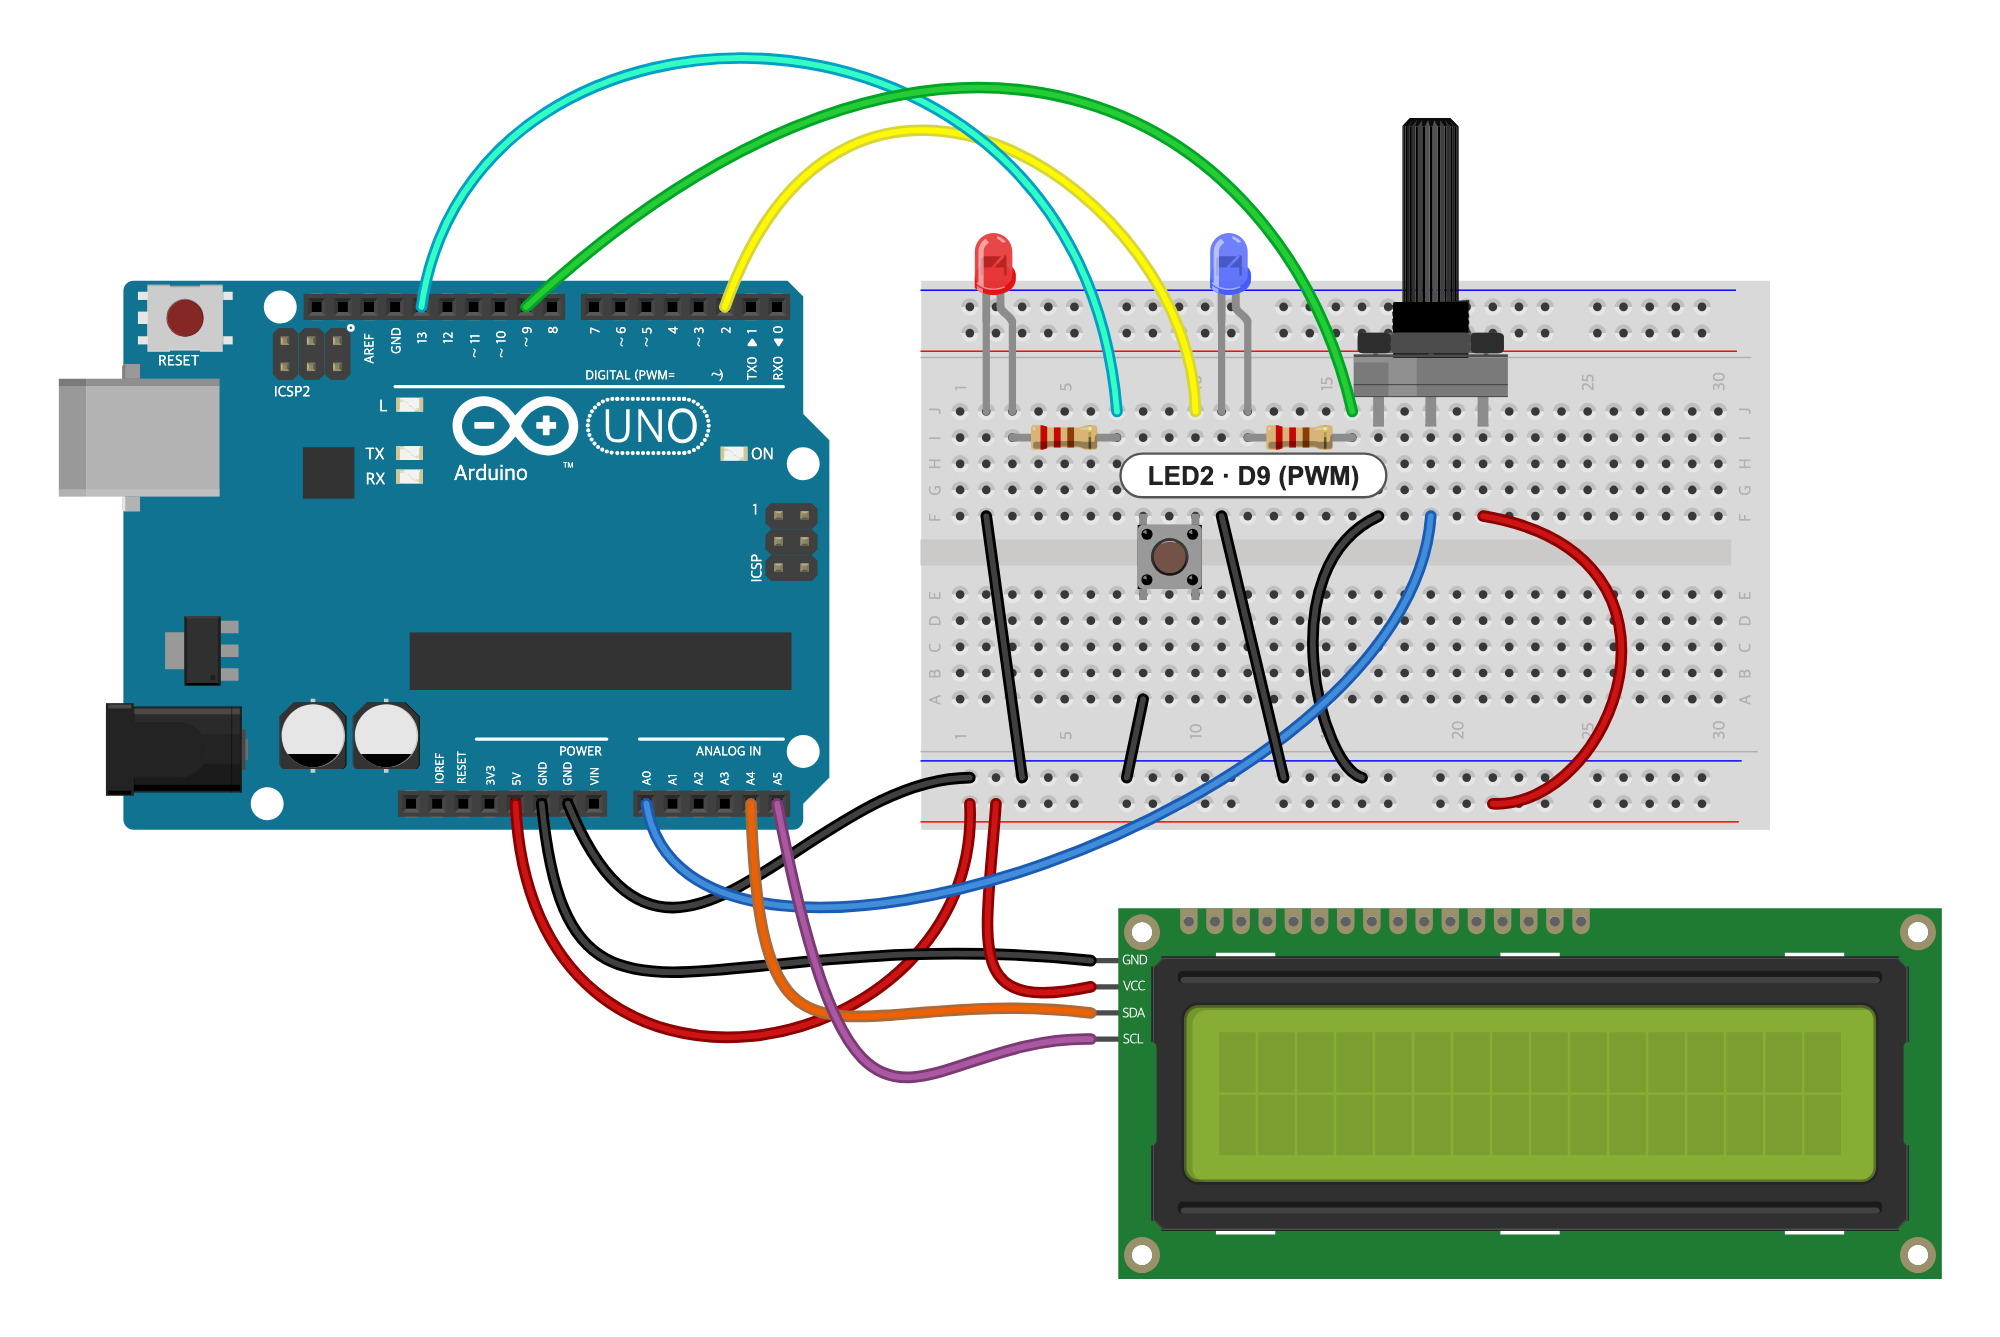
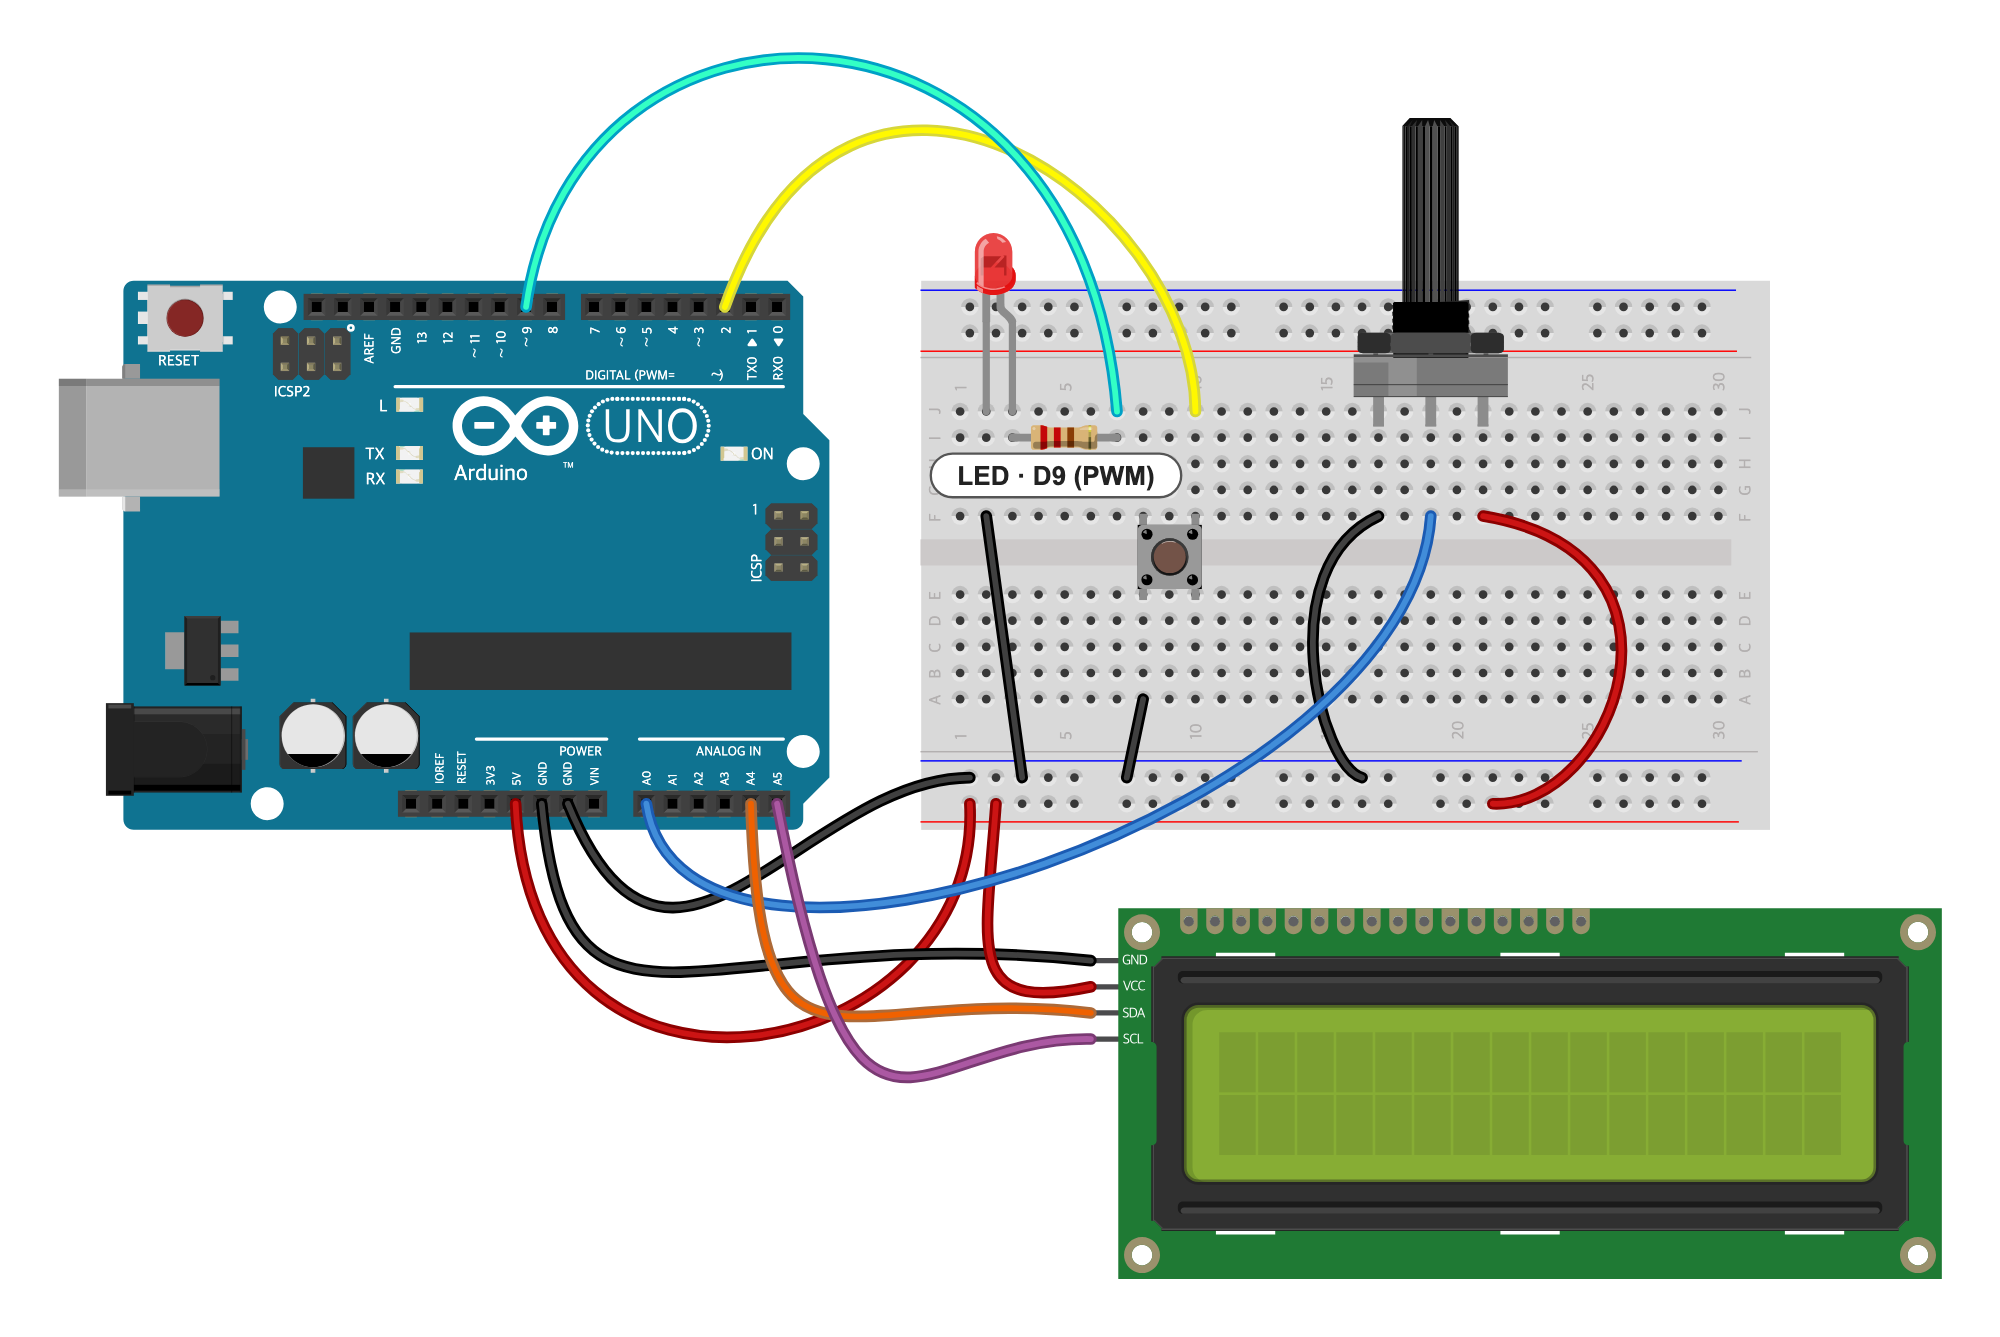
finger-led: wiring now moves the class LED from D13 to D9 instead of adding LED2; diagram generator renders all class-circuit variants

diff --git a/finger-led/index.html b/finger-led/index.html
@@ -973,12 +973,12 @@
 
       <section aria-labelledby="wiring-title">
         <h2 id="wiring-title"><span class="section-number">04</span>회로와 연결도</h2>
-        <p>회로는 지난 p5 슬라이더 과제와 같다. 수업 회로에 더한 <strong>파랑 LED2와 220 Ω 저항</strong>을 쓴다. D9 → 220 Ω → LED2 긴 다리(+), 짧은 다리(−) → GND 레일이다. 수업 회로의 나머지 부품은 꽂힌 채로 두지만 이번 스케치에서는 쓰지 않는다.</p>
+        <p>수업 회로를 그대로 쓰고 <strong>선 하나만 옮겼다</strong>. 수업 회로의 빨강 LED1은 D13 → 220 Ω → LED(+), (−) → GND로 연결되어 있다. 그런데 D13은 PWM이 없어 <code>analogWrite()</code>로 켜고 끄는 것만 된다(값 128 미만은 꺼짐, 이상은 켜짐). 그래서 D13에 꽂힌 하늘색 선을 PWM 핀인 <strong>D9</strong>로 옮겼다. 부품을 더하지 않았고, 나머지 부품(버튼, 가변저항, LCD)은 꽂힌 채로 두지만 이번 스케치에서는 쓰지 않는다.</p>
         <figure class="media-figure">
           <a href="assets/finger-led-breadboard.svg" aria-label="연결도 크게 보기">
-            <img src="assets/finger-led-breadboard.svg" alt="브레드보드 연결도. 파랑 LED2가 초록 선으로 D9에서 220옴 저항을 거쳐 연결되고 음극은 GND 레일로 간다. 수업 회로의 LED1(D13), 버튼(D2), 가변저항(A0), I2C LCD(A4, A5)도 꽂혀 있다." loading="lazy">
+            <img src="assets/finger-led-breadboard.svg" alt="브레드보드 연결도. 빨강 LED는 하늘색 선으로 Arduino D9에 연결되고 220옴 저항을 거쳐 GND로 간다. 수업 회로의 버튼(D2), 가변저항(A0), I2C LCD(A4, A5)도 꽂혀 있다." loading="lazy">
           </a>
-          <figcaption>수업 Fritzing 파일(PotButtonLCD.fzz)의 브레드보드 화면을 같은 부품 그림과 좌표로 다시 그리고 LED2·220 Ω 저항·D9 선(초록)을 더한 연결도다(지난 과제와 같은 그림). 부품 그림은 Fritzing 기본 부품(fritzing-parts, CC BY-SA 3.0)이고, LCD는 수업 파일에 들어 있는 'LCD1602-I2C' 부품(작성자 Stephen Lilley)이다.</figcaption>
+          <figcaption>수업 Fritzing 파일(PotButtonLCD.fzz)의 브레드보드 화면을 같은 부품 그림과 좌표로 다시 그리고, LED 선(하늘색)의 Arduino 쪽 끝만 D13에서 D9로 옮긴 연결도다. 부품 그림은 Fritzing 기본 부품(fritzing-parts, CC BY-SA 3.0)이고, LCD는 수업 파일에 들어 있는 'LCD1602-I2C' 부품(작성자 Stephen Lilley)이다.</figcaption>
         </figure>
         <div class="asset-links">
           <a href="assets/finger-led-breadboard.svg" download>연결도 다운로드 (.svg)</a>
@@ -990,16 +990,17 @@
             <table class="pin-table">
               <thead><tr><th>Arduino</th><th>연결</th><th>이번 스케치</th></tr></thead>
               <tbody>
-                <tr><td><strong>D9 (~)</strong></td><td><strong>220 Ω → 파랑 LED2(+), (−) → GND</strong></td><td><strong>PWM 밝기</strong></td></tr>
+                <tr><td><strong>D9 (~)</strong></td><td><strong>하늘색 선 → 220 Ω → 빨강 LED(+), (−) → GND</strong></td><td><strong>PWM 밝기 (D13에서 옮김)</strong></td></tr>
                 <tr><td>USB</td><td>노트북과 연결</td><td>Web Serial 9600 baud</td></tr>
-                <tr><td>D13, D2, A0, A4/A5</td><td>수업 회로(LED1, 버튼, 가변저항, LCD)</td><td>사용 안 함</td></tr>
+                <tr><td>D13</td><td>비어 있음</td><td></td></tr>
+                <tr><td>D2, A0, A4/A5</td><td>수업 회로(버튼, 가변저항, LCD)</td><td>사용 안 함</td></tr>
               </tbody>
             </table>
           </div>
           <div class="panel">
             <h3>준비물</h3>
             <ul class="parts-list">
-              <li>Arduino Uno, LED 1개, 220 Ω 저항 1개, 점퍼선</li>
+              <li>수업 회로 그대로 (Arduino Uno, LED, 220 Ω 저항 포함). 추가 부품 없음</li>
               <li>웹캠이 있는 노트북</li>
               <li>Chrome 또는 Edge (Web Serial과 카메라를 쓰는 브라우저)</li>
             </ul>
@@ -1493,6 +1494,7 @@ void loop() {
       <section aria-labelledby="usage-title">
         <h2 id="usage-title"><span class="section-number">06</span>사용법</h2>
         <ol>
+          <li>수업 회로에서 D13에 꽂힌 LED 선을 D9로 옮긴다.</li>
           <li>Arduino IDE로 <code>finger_led.ino</code>를 Uno에 올린다.</li>
           <li>Chrome이나 Edge로 <a href="app/">앱</a>을 열고 카메라를 허용한다. 손 인식 모델을 불러오는 데 몇 초 걸린다.</li>
           <li><strong>Arduino 연결</strong>을 누르고 Uno의 포트를 고른다. '연결됨'이 뜨면 준비가 끝난 것이다.</li>
@@ -1573,7 +1575,7 @@ void loop() {
       <section aria-labelledby="demo-title">
         <h2 id="demo-title"><span class="section-number">08</span>실제 동작</h2>
         <figure class="media-figure" id="videoFigure" hidden>
-          <video controls playsinline preload="metadata" poster="assets/finger-led-poster.jpg" aria-label="손가락 간격으로 파랑 LED 밝기를 조절하는 실제 동작 영상">
+          <video controls playsinline preload="metadata" poster="assets/finger-led-poster.jpg" aria-label="손가락 간격으로 LED 밝기를 조절하는 실제 동작 영상">
             <source src="assets/finger-led.mp4" type="video/mp4">
           </video>
           <figcaption>실제 동작 영상(소리 없음).</figcaption>

diff --git a/tools/make_class_breadboard.py b/tools/make_class_breadboard.py
@@ -1,4 +1,6 @@
-# Renders the class PotButtonLCD.fz breadboard view (original PNG) and the assignment version with LED2 on D9 (SVG + PNG).
+# Renders the class PotButtonLCD.fz breadboard view and the assignment circuits built on it (SVG + PNG):
+#   p5-led-slider  LED2 and its resistor added on D9
+#   finger-led     LED1's wire moved from D13 to D9 (D13 has no PWM), nothing added
 import re
 import struct
 import subprocess
@@ -6,7 +8,6 @@ import xml.etree.ElementTree as ET
 from pathlib import Path
 
 LED2_COLOR = "Blue (470nm)"
-LED2_LABEL = "LED2 · D9 (PWM)"
 
 SVG = "http://www.w3.org/2000/svg"
 XLINK = "http://www.w3.org/1999/xlink"
@@ -21,11 +22,6 @@ FZ = FZZ / "PotButtonLCD.fz"
 PARTS = ROOT / "_build/fritzing-parts"
 APP = ROOT / "_build/fritzing-app"
 SCRATCH = ROOT / "_build/p5-slider"
-OUT_DIR = LAB / "p5-led-slider/assets"
-OUT_SVG = OUT_DIR / "p5-led-slider-breadboard.svg"
-OUT_PNG = OUT_DIR / "p5-led-slider-breadboard.png"
-ORIG_SVG = SCRATCH / "class-original.svg"
-ORIG_PNG = SCRATCH / "class-original.png"
 CHROME = "/Applications/Google Chrome.app/Contents/MacOS/Google Chrome"
 PNG_WIDTH = 2000
 
@@ -41,8 +37,8 @@ UNIT_IN = {"in": 1.0, "mm": 1 / 25.4, "cm": 1 / 2.54, "pt": 1 / 72, "pc": 1 / 6}
 LED2_SHIFT_COLS = 9
 LED2_GND_RAIL_PIN = "pin15X"
 D9_CONNECTOR = "connector52"
+D13_CONNECTOR = "connector56"
 D9_CP = ((-24.0, -105.0), (-140.0, -170.0))
-LABEL_POS = (398.0, 22.0)
 
 
 def el(tag, attrs=None, parent=None, text=None):
@@ -248,24 +244,37 @@ def add_led2(insts, holes, uno):
     return [led2, r3, *wires]
 
 
-def label_group():
-    w = len(LED2_LABEL) * 5.3 + 12
-    x, y = LABEL_POS
-    g = el("g", {"id": "led2-label"})
+def move_led1_to_d9(insts, holes, uno):
+    # The class file's D13 wire ends at the Uno; move that end four pins along to D9 and carry the
+    # curve's near control point with it, so the wire keeps its shape.
+    d13 = uno_pin(uno, D13_CONNECTOR)
+    d9 = uno_pin(uno, D9_CONNECTOR)
+    wire = next(w for w in insts if w["module"] == WIRE
+                and abs(w["x"] + w["p2"][0] - d13[0]) < 0.5 and abs(w["y"] + w["p2"][1] - d13[1]) < 0.5)
+    dx, dy = d9[0] - d13[0], d9[1] - d13[1]
+    (c0, c1) = wire["bezier"]
+    wire.update(p2=(wire["p2"][0] + dx, wire["p2"][1] + dy), bezier=(c0, (c1[0] + dx, c1[1] + dy)))
+    return []
+
+
+def label_group(text, pos):
+    w = len(text) * 5.3 + 12
+    x, y = pos
+    g = el("g", {"id": "pin-label"})
     el("rect", {"x": f"{x - w / 2:.1f}", "y": y - 7.5, "width": f"{w:.1f}", "height": 15, "rx": 7.5, "fill": "#ffffff",
                 "stroke": "#555555", "stroke-width": 0.8}, g)
     el("text", {"x": x, "y": y + 3.4, "text-anchor": "middle", "font-size": 9, "font-weight": "bold",
-                "font-family": "Arial, Helvetica, sans-serif", "fill": "#222222"}, g, LED2_LABEL)
+                "font-family": "Arial, Helvetica, sans-serif", "fill": "#222222"}, g, text)
     return g
 
 
-def build(with_led2):
+def build(change, label):
     insts = read_instances()
     bb = next(i for i in insts if i["module"] == BREADBOARD)
     uno = next(i for i in insts if i["module"] == UNO)
     holes = breadboard_holes(bb)
-    if with_led2:
-        insts += add_led2(insts, holes, uno)
+    if change:
+        insts += change(insts, holes, uno)
     insts.sort(key=lambda i: i["z"])
     shadows = wire_shadows()
     colors = led_colors()
@@ -283,10 +292,11 @@ def build(with_led2):
         body.append(grp)
         xs += [x, x + w]
         ys += [y, y + h]
-    if with_led2:
-        body.append(label_group())
-        xs += [LABEL_POS[0] - 60, LABEL_POS[0] + 60]
-        ys += [LABEL_POS[1] - 12]
+    if label:
+        text, pos = label
+        body.append(label_group(text, pos))
+        xs += [pos[0] - 60, pos[0] + 60]
+        ys += [pos[1] - 12]
     return body, (min(xs) - 20, min(ys) - 20, max(xs) + 20, max(ys) + 20)
 
 
@@ -313,15 +323,25 @@ def write(body, bounds, svg_path, png_path, title, desc):
     print(svg_path, png_path, size)
 
 
+CREDIT = ("Breadboard, Arduino Uno (Rev3), potentiometer, pushbutton, LED and resistor graphics are from Fritzing "
+          "(fritzing-parts), CC BY-SA 3.0. The LCD1602-I2C graphic is the custom part in the class's PotButtonLCD.fzz.")
+
+# name -> (change to the class circuit, pin label (text, position), output stem, title)
+VARIANTS = {
+    "class": (None, None, SCRATCH / "class-original", "PotButtonLCD breadboard (class file)"),
+    "p5-led-slider": (add_led2, ("LED2 · D9 (PWM)", (398.0, 22.0)), LAB / "p5-led-slider/assets/p5-led-slider-breadboard",
+                      "Arduino Uno LED slider breadboard wiring: LED2 on D9 added"),
+    "finger-led": (move_led1_to_d9, ("LED · D9 (PWM)", (330.0, 22.0)), LAB / "finger-led/assets/finger-led-breadboard",
+                   "Arduino Uno finger dimmer breadboard wiring: LED1 moved from D13 to D9"),
+}
+
+
 def main():
     SCRATCH.mkdir(parents=True, exist_ok=True)
-    credit = ("Breadboard, Arduino Uno (Rev3), potentiometer, pushbutton, LED and resistor graphics are from Fritzing "
-              "(fritzing-parts), CC BY-SA 3.0. The LCD1602-I2C graphic is the custom part in the class's PotButtonLCD.fzz.")
-    body, bounds = build(False)
-    write(body, bounds, ORIG_SVG, ORIG_PNG, "PotButtonLCD breadboard (class file)", credit)
-    body, bounds = build(True)
-    write(body, bounds, OUT_SVG, OUT_PNG, "Arduino Uno LED slider breadboard wiring",
-          credit + " Rendered from the class Fritzing file with LED2 on D9 added.")
+    for change, label, stem, title in VARIANTS.values():
+        body, bounds = build(change, label)
+        write(body, bounds, stem.with_suffix(".svg"), stem.with_suffix(".png"), title,
+              CREDIT + " Rendered from the class Fritzing file. " + title + ".")
 
 
 if __name__ == "__main__":

diff --git a/tools/fingersim/ino_test.cpp b/tools/fingersim/ino_test.cpp
@@ -1,5 +1,6 @@
 // Feeds serial lines to finger_led.ino on the host and checks D9 and the replies.
-// Build: c++ -std=c++17 -I. ino_test.cpp -o /tmp/ino_test && /tmp/ino_test
+// Build from the project root:
+//   clang++ -std=c++17 -I arduino-lab/tools/fingersim arduino-lab/tools/fingersim/ino_test.cpp -o _build/finger_ino_check
 #include "Arduino.h"
 
 int simPin[20];
